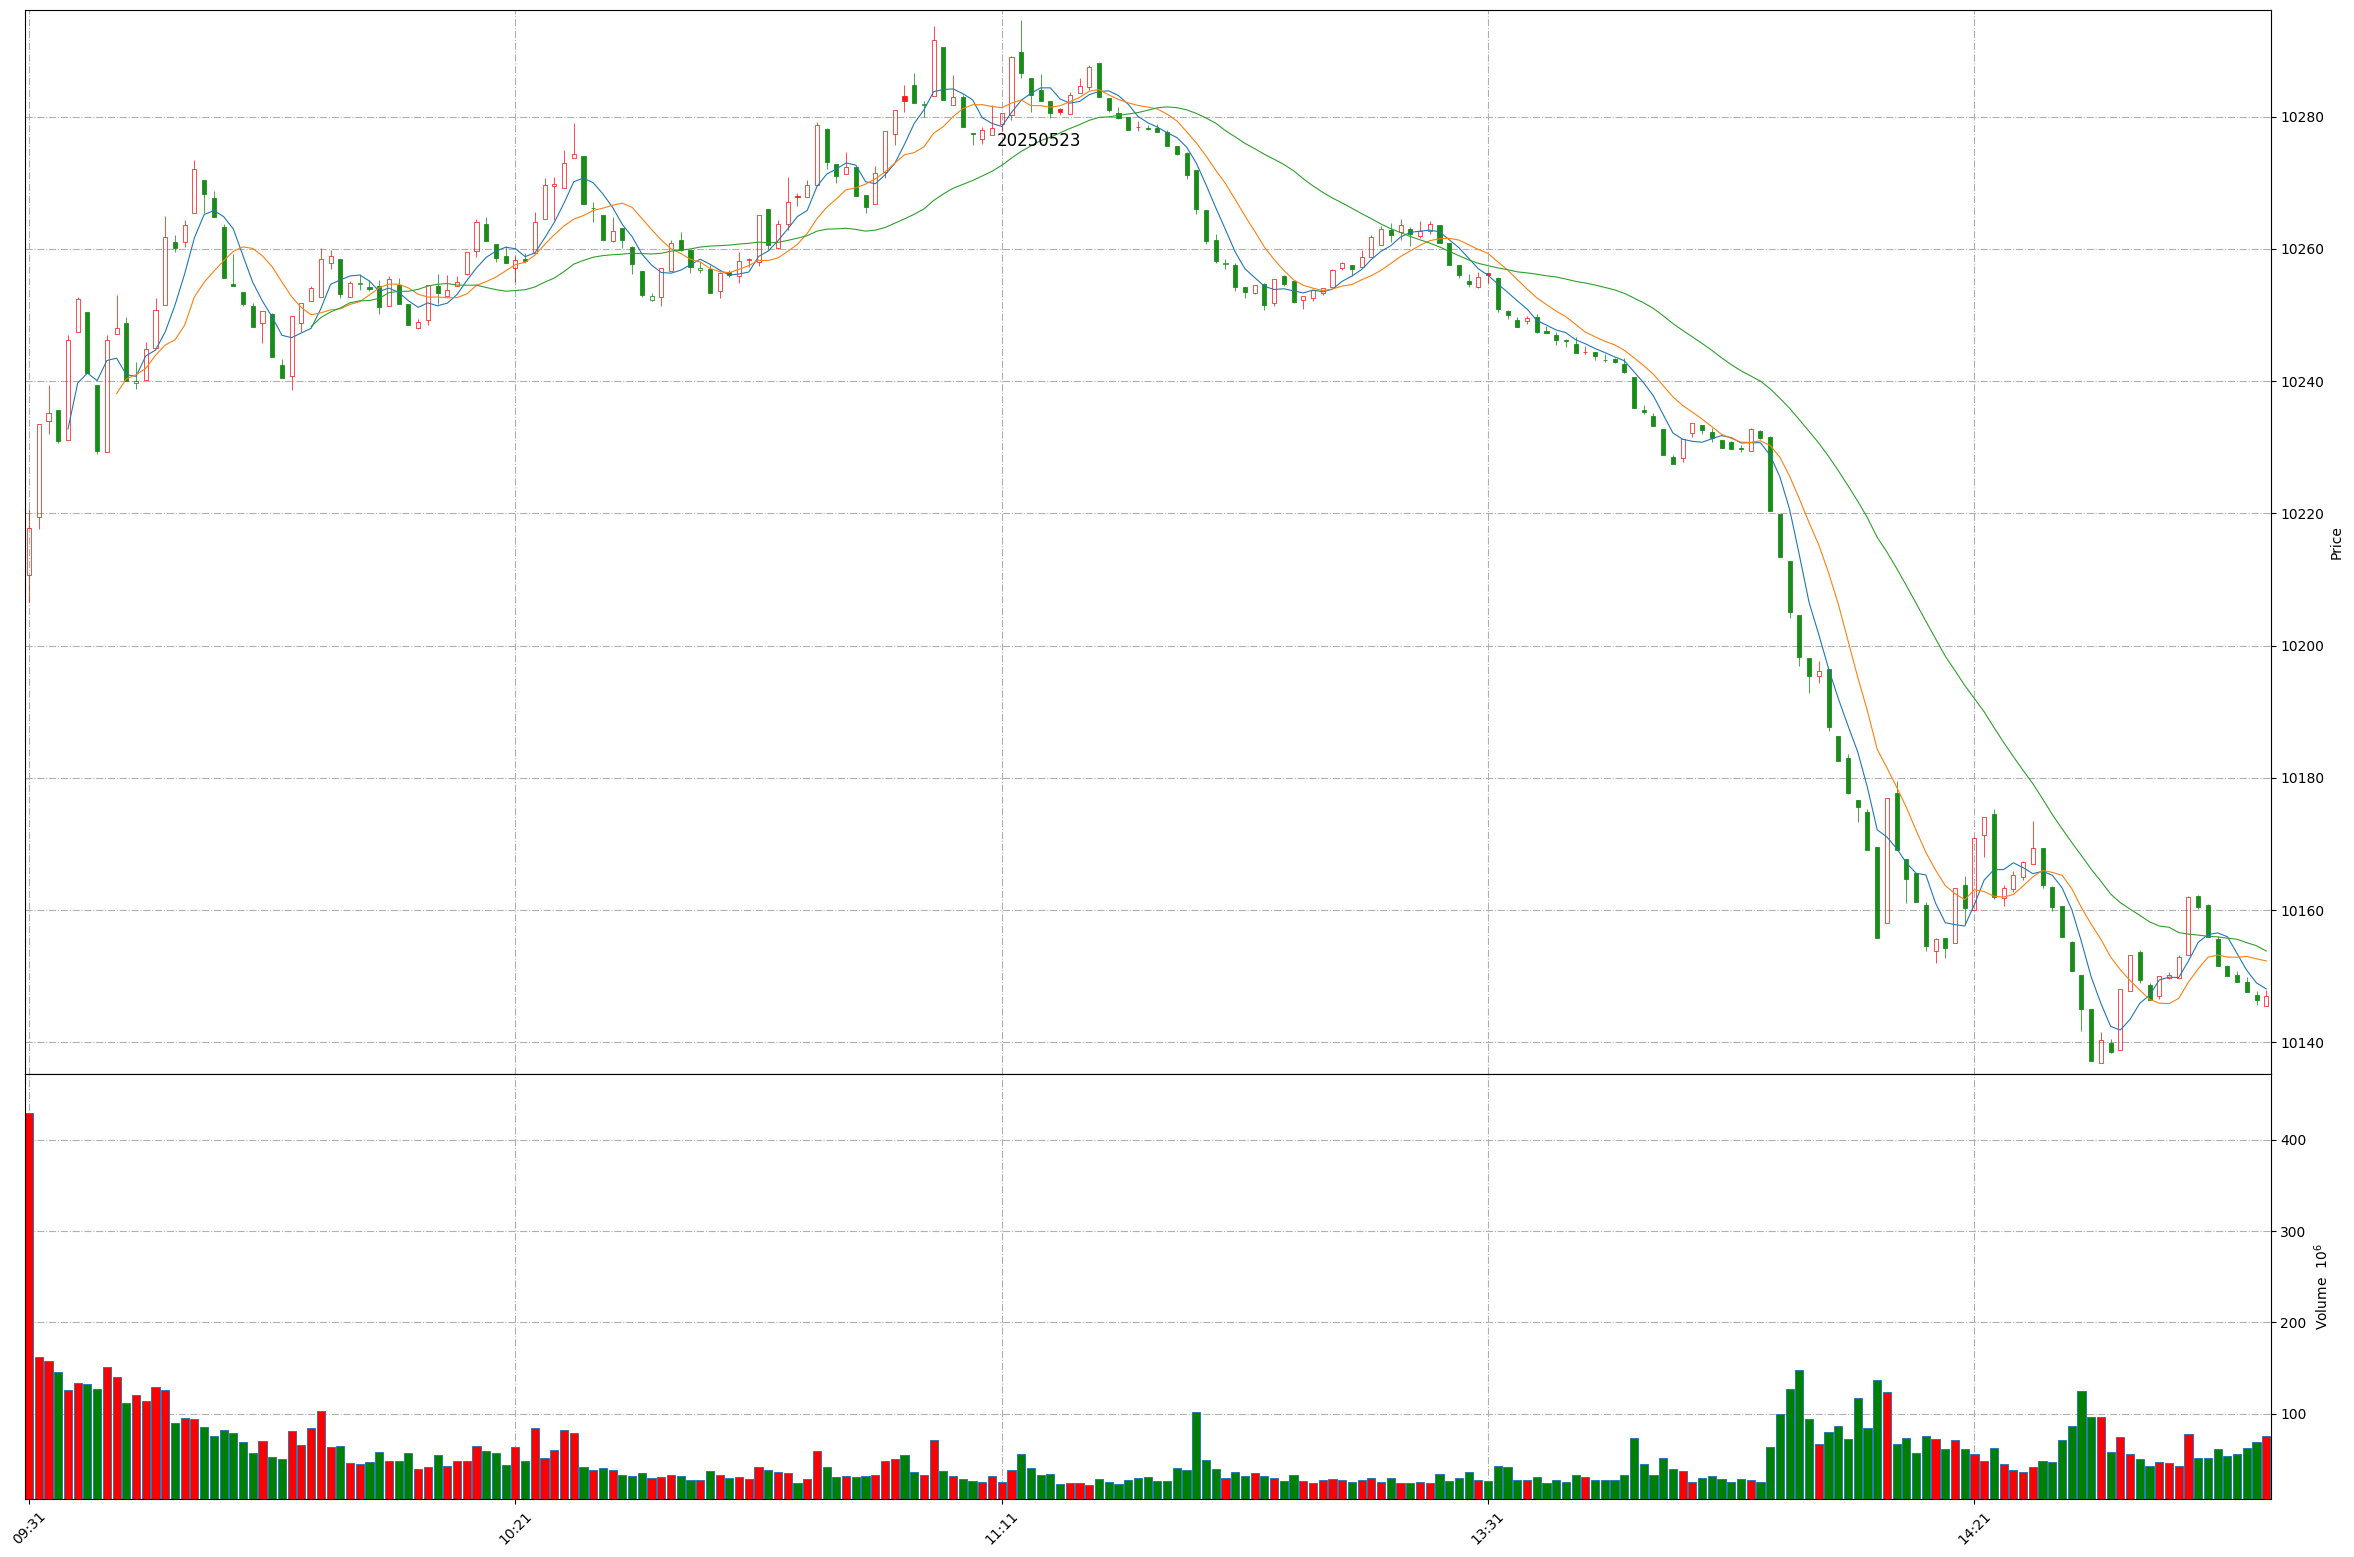
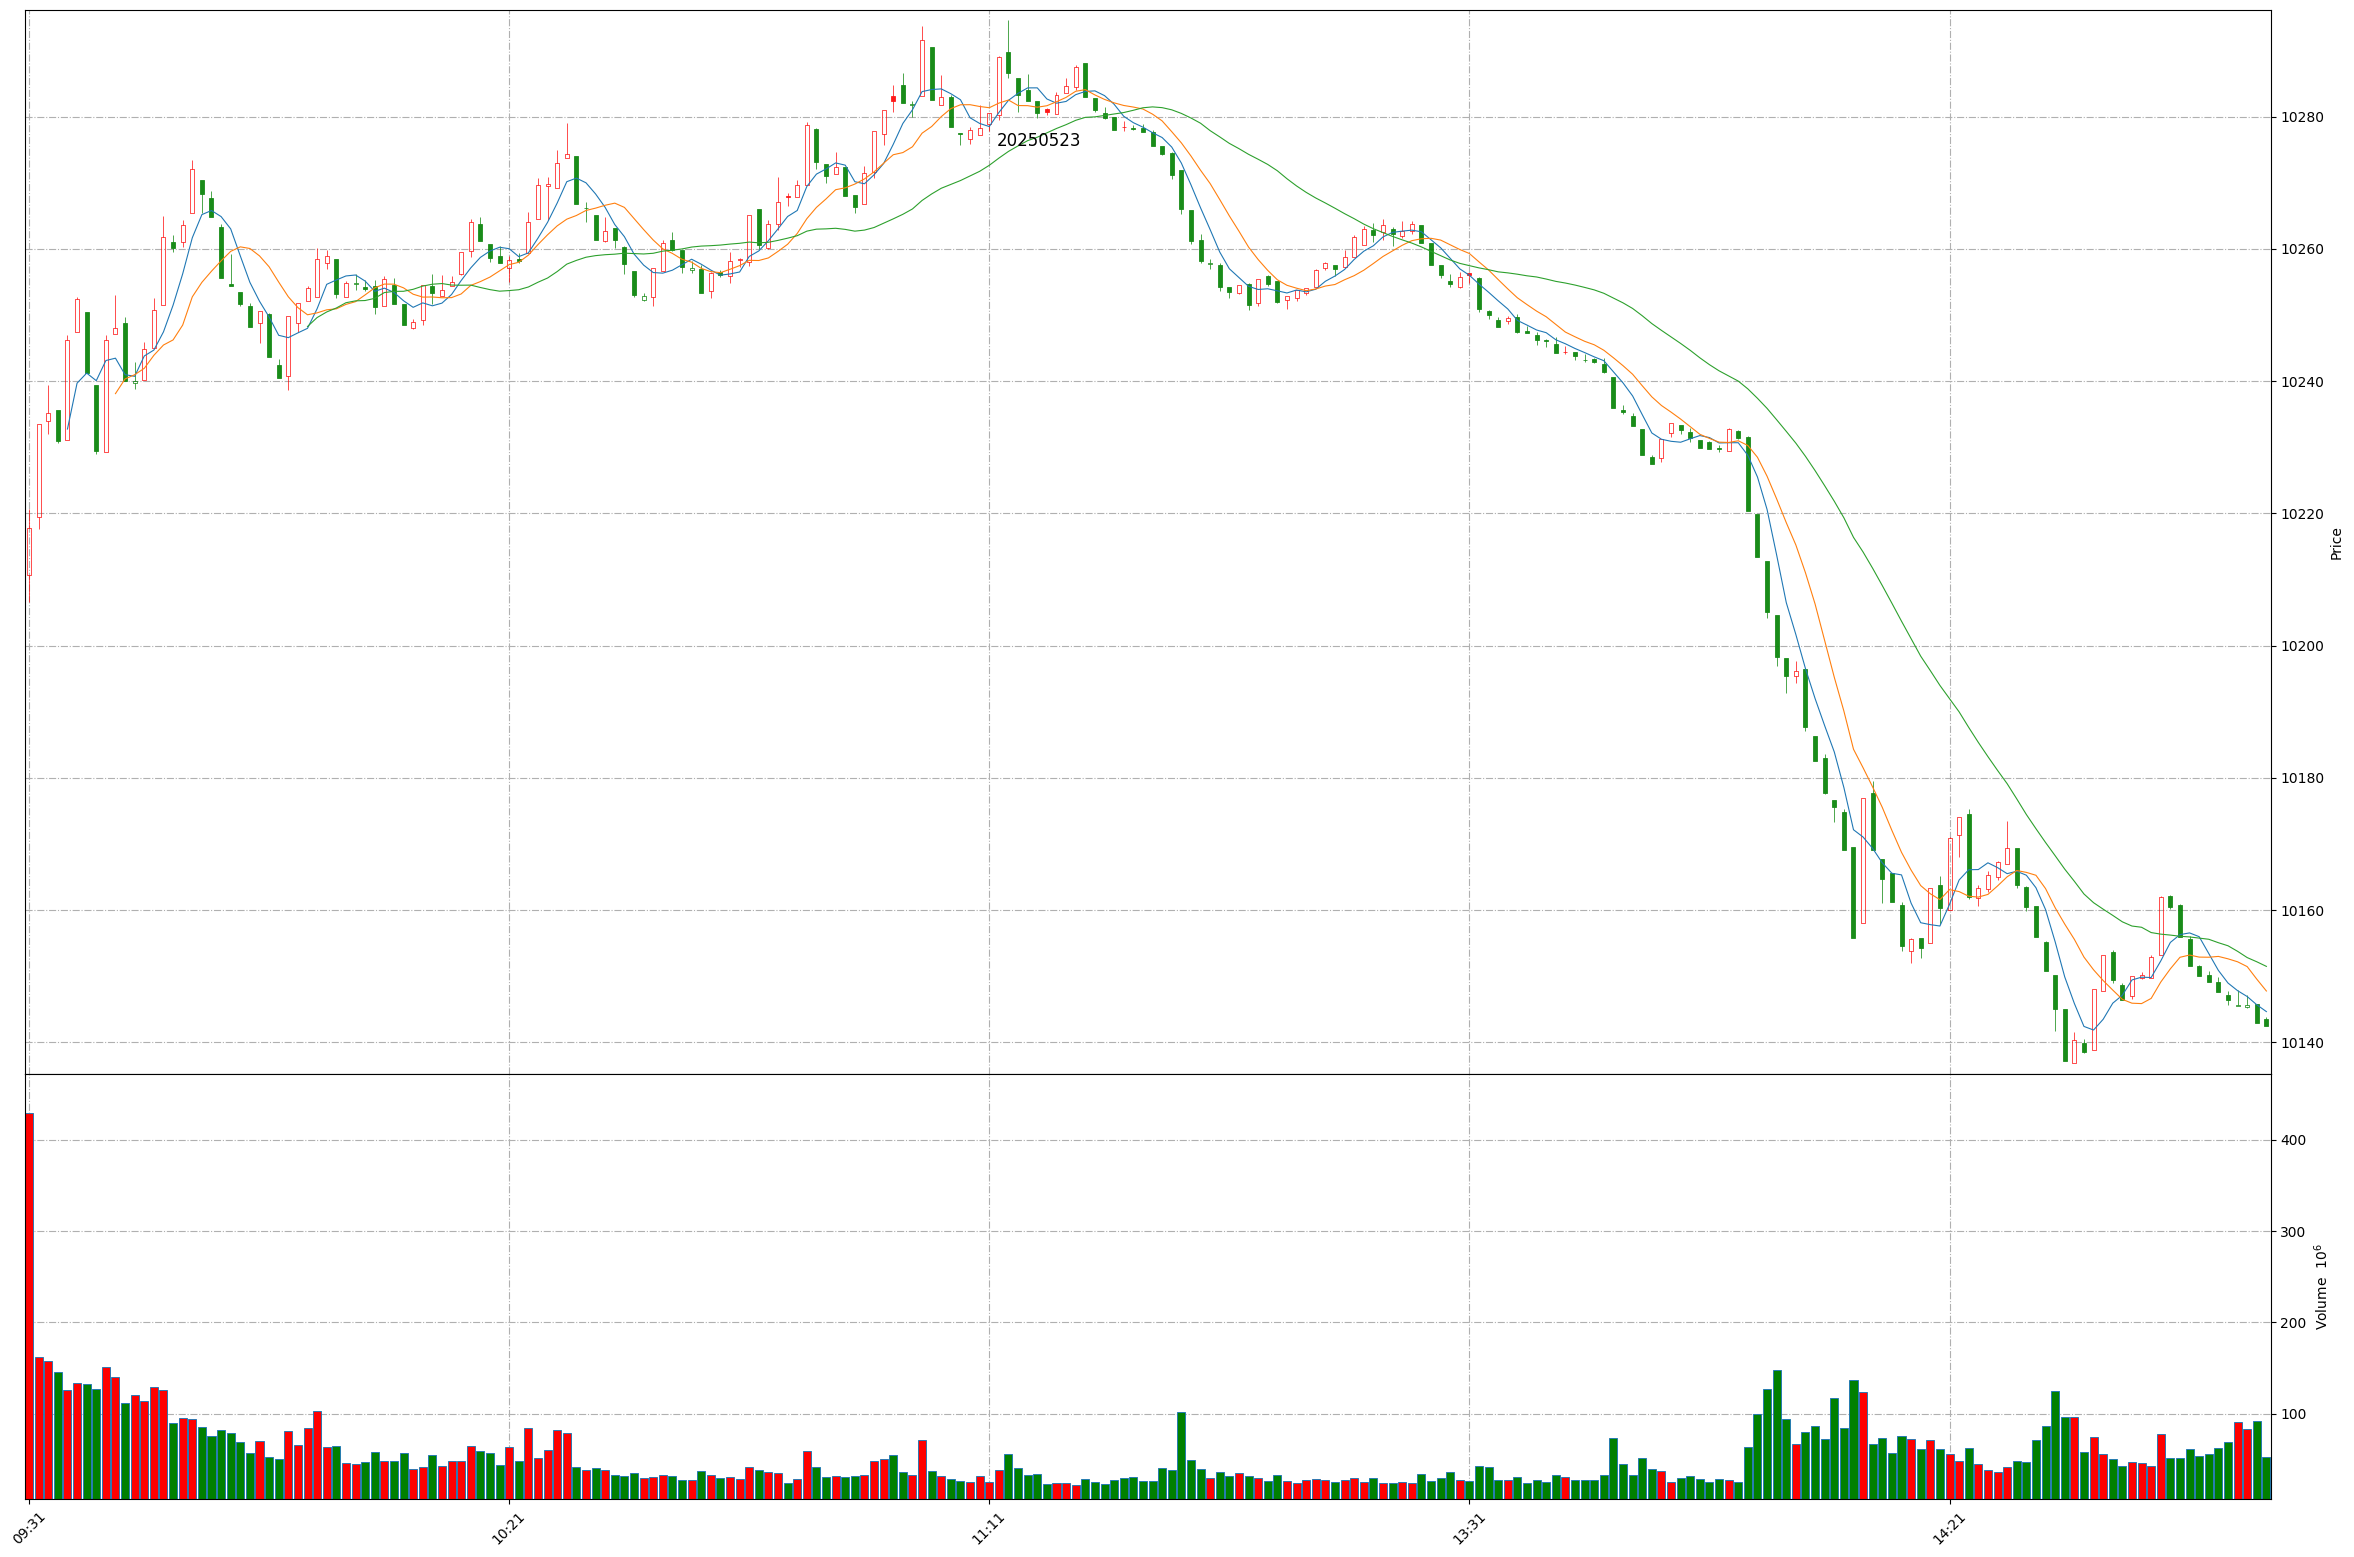
Github action update at 2025-05-23 14:53:51.

diff --git a/README.md b/README.md
@@ -1,11 +1,11 @@
 
 # Daily-A-share-market-quotes 每日 A 股指数（5min 更新）- 20250523
 
-### 上证指数 20250523 14:51
+### 上证指数 20250523 14:53
 ![](./fig/2025/5/20250523-sh000001.png)
 
-### 深证成指 20250523 14:51
+### 深证成指 20250523 14:53
 ![](./fig/2025/5/20250523-sz399001.png)
 
-### 北证50 20250523 14:51
+### 北证50 20250523 14:53
 ![](./fig/2025/5/20250523-bj899050.png)
